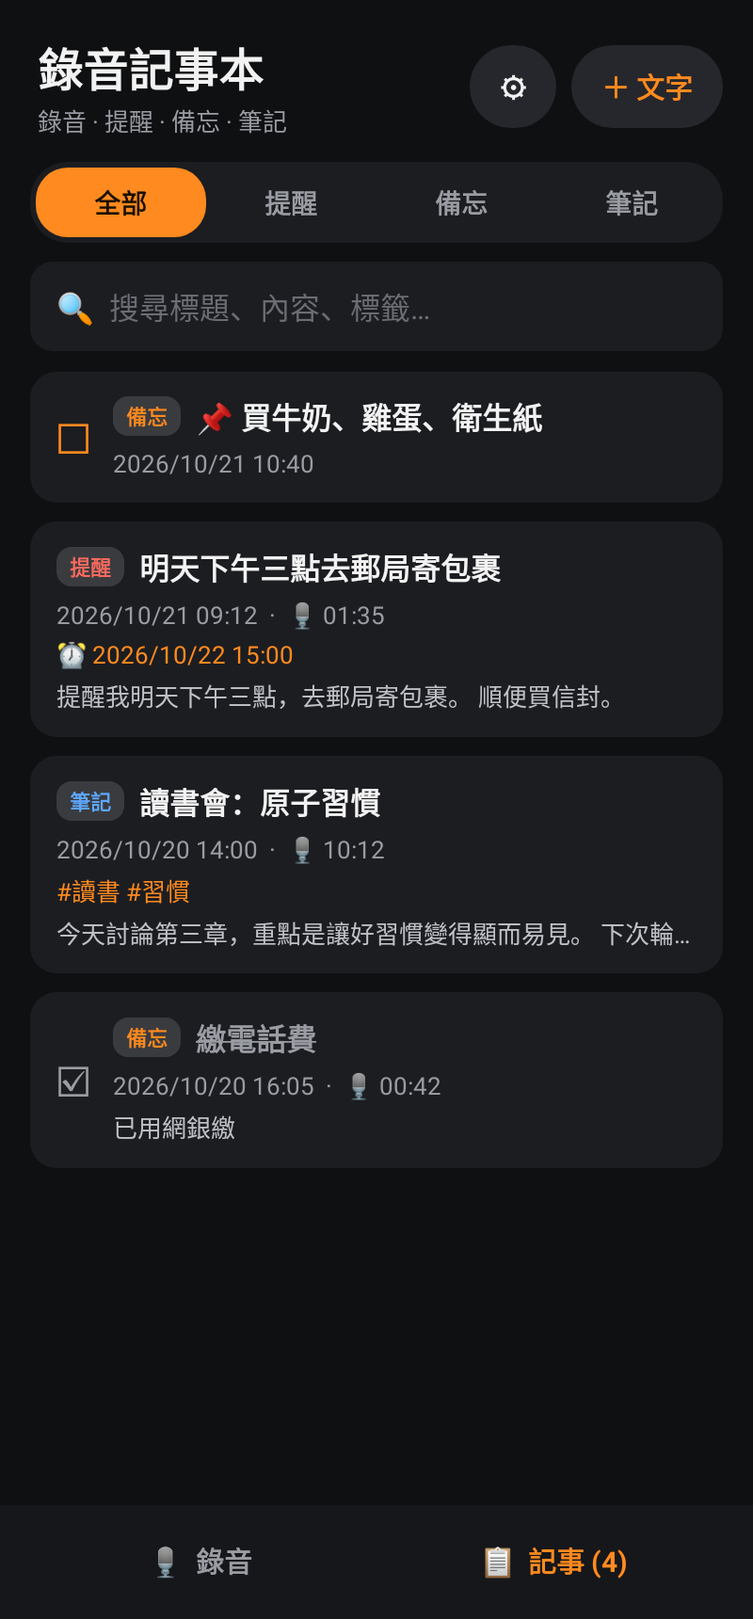
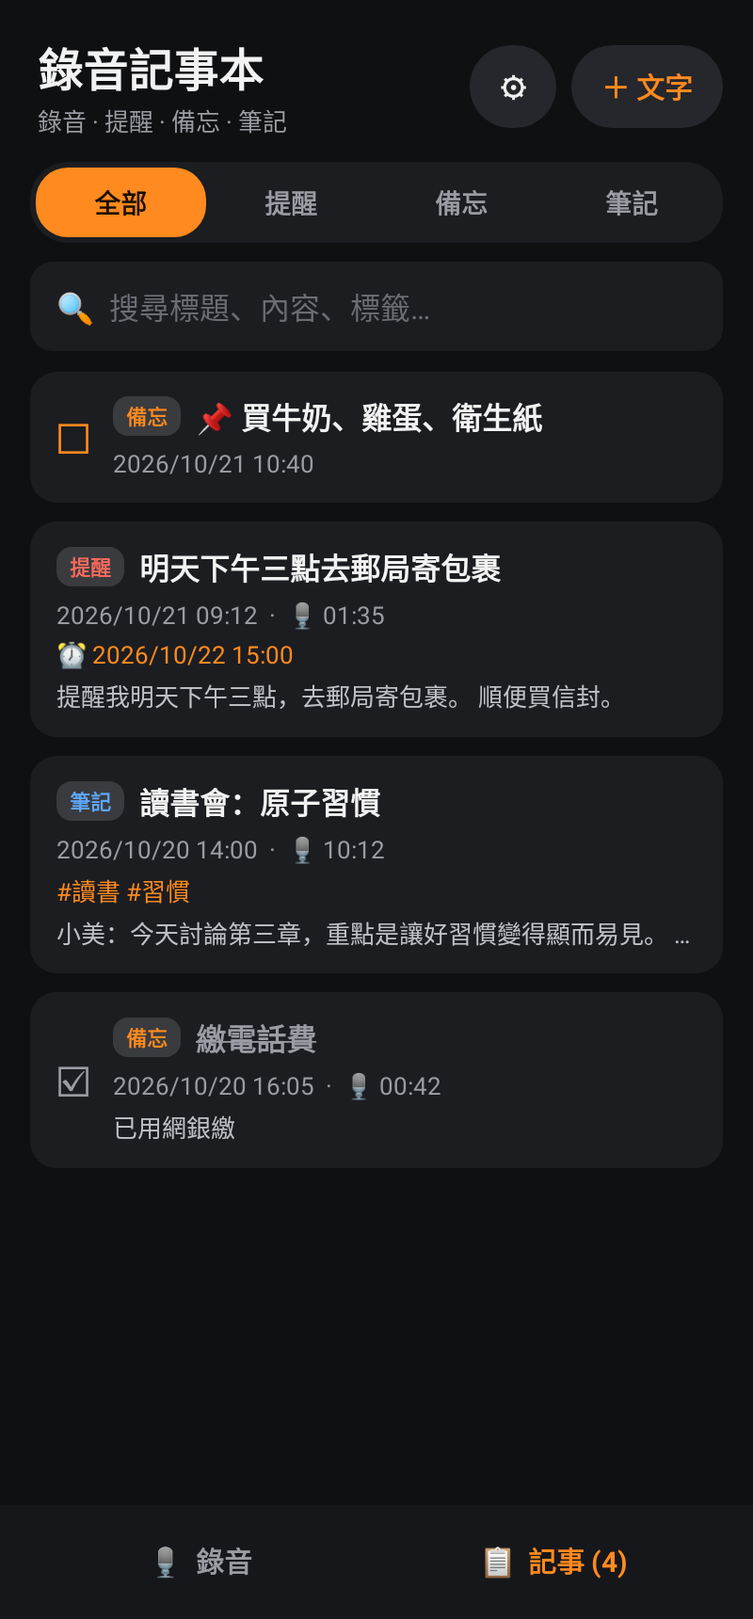
v1.2.0：離線分辨說話者

Changed region(s): [[0.0625, 0.5547, 0.9062, 0.5855]]

diff --git a/app/src/main/java/tw/voicememo/Transcriber.kt b/app/src/main/java/tw/voicememo/Transcriber.kt
@@ -16,7 +16,14 @@ import android.os.IBinder
 import androidx.core.app.NotificationCompat
 import androidx.core.app.ServiceCompat
 import androidx.core.content.ContextCompat
+import com.k2fsa.sherpa.onnx.FastClusteringConfig
 import com.k2fsa.sherpa.onnx.OfflineModelConfig
+import com.k2fsa.sherpa.onnx.OfflineSpeakerDiarization
+import com.k2fsa.sherpa.onnx.OfflineSpeakerDiarizationConfig
+import com.k2fsa.sherpa.onnx.OfflineSpeakerSegmentationModelConfig
+import com.k2fsa.sherpa.onnx.OfflineSpeakerSegmentationPyannoteModelConfig
+import com.k2fsa.sherpa.onnx.SpeakerEmbeddingExtractor
+import com.k2fsa.sherpa.onnx.SpeakerEmbeddingExtractorConfig
 import com.k2fsa.sherpa.onnx.OfflineRecognizer
 import com.k2fsa.sherpa.onnx.OfflineRecognizerConfig
 import com.k2fsa.sherpa.onnx.OfflineSenseVoiceModelConfig
@@ -40,6 +47,16 @@ object AsrModel {
     fun dir(ctx: Context) = File(ctx.filesDir, "sensevoice").apply { mkdirs() }
     fun ready(ctx: Context) = File(dir(ctx), ".ok").exists()
     fun delete(ctx: Context) { dir(ctx).deleteRecursively() }
+    // 說話者分辨：pyannote segmentation-3.0 + 3D-Speaker ERes2NetV2 (zh-cn)
+    const val SEG = "seg.onnx"; const val EMB = "emb.onnx"; const val DIAR_MB = 77
+    private const val SEG_URL = "https://huggingface.co/csukuangfj/sherpa-onnx-pyannote-segmentation-3-0/resolve/main/model.onnx"
+    private const val EMB_URL = "https://github.com/k2-fsa/sherpa-onnx/releases/download/speaker-recongition-models/3dspeaker_speech_eres2netv2_sv_zh-cn_16k-common.onnx"
+    fun ddir(ctx: Context) = File(ctx.filesDir, "diar").apply { mkdirs() }
+    fun diarReady(ctx: Context) = File(ddir(ctx), ".ok").exists()
+    fun deleteDiar(ctx: Context) { ddir(ctx).deleteRecursively() }
+    fun downloadDiar(ctx: Context, progress: (Int) -> Unit, cancelled: () -> Boolean) {
+        val d = ddir(ctx); fetch(SEG_URL, File(d, SEG), {}, cancelled); fetch(EMB_URL, File(d, EMB), progress, cancelled); File(d, ".ok").writeText("1")
+    }
     /** 可續傳下載；progress 0..100；cancelled() 為 true 時中止 */
     fun download(ctx: Context, progress: (Int) -> Unit, cancelled: () -> Boolean) {
         val d = dir(ctx)
@@ -116,7 +133,8 @@ class Transcriber : Service() {
         val progress = ConcurrentHashMap<Long, Int>() // -1 排隊、0..100 進度
         @Volatile var downloading = -1; @Volatile var error: String? = null; @Volatile private var cancelId = 0L; @Volatile var cancelAll = false
         fun status(id: Long): String? = progress[id]?.let { p ->
-            when { downloading >= 0 -> "下載語音模型 $downloading%"; p < 0 -> "等待轉文字…"; else -> "轉文字中… $p%" } }
+            when { downloading >= 0 -> "下載模型 $downloading%"; p < 0 -> "等待轉文字…"; else -> "$phase… $p%" } }
+        @Volatile var phase = "轉文字中"
         fun enqueue(ctx: Context, id: Long) {
             if (progress.putIfAbsent(id, -1) != null) return
             queue.add(id); cancelAll = false
@@ -124,6 +142,9 @@ class Transcriber : Service() {
         }
         fun cancel(id: Long) { if (queue.remove(id)) progress.remove(id); cancelId = id }
         fun auto(ctx: Context) = ctx.getSharedPreferences("ui", Context.MODE_PRIVATE).getBoolean("autoAsr", true)
+        fun diarOn(ctx: Context) = ctx.getSharedPreferences("ui", Context.MODE_PRIVATE).getBoolean("diar", true)
+        /** 0 = 自動，2..4 = 固定人數，5 = 5 人以上（自動、門檻放寬） */
+        fun spkCount(ctx: Context) = ctx.getSharedPreferences("ui", Context.MODE_PRIVATE).getInt("spk", 0)
     }
     private var worker: Thread? = null; private var rec: OfflineRecognizer? = null; private var cur = 0L
     private fun nm() = getSystemService(NotificationManager::class.java)
@@ -145,7 +166,8 @@ class Transcriber : Service() {
         try {
             while (true) {
                 val id = queue.poll() ?: break; cur = id; cancelId = 0
-                try { if (!AsrModel.ready(this)) download(); run(id) }
+                try { if (!AsrModel.ready(this)) download(); if (diarOn(this) && !AsrModel.diarReady(this)) downloadDiar()
+                      if (diarOn(this)) runDiar(id) else run(id) }
                 catch (e: InterruptedException) { }
                 catch (e: Throwable) { error = "轉文字失敗：${e.message}" }
                 finally { progress.remove(id); cur = 0; downloading = -1 }
@@ -161,6 +183,10 @@ class Transcriber : Service() {
         downloading = 0; show("下載語音模型（約 ${AsrModel.SIZE_MB}MB）", 0)
         AsrModel.download(this, { downloading = it; show("下載語音模型 $it%", it) }, ::stop); downloading = -1
     }
+    private fun downloadDiar() {
+        downloading = 0; show("下載說話者模型（約 ${AsrModel.DIAR_MB}MB）", 0)
+        AsrModel.downloadDiar(this, { downloading = it; show("下載說話者模型 $it%", it) }, ::stop); downloading = -1
+    }
     private fun recognizer(): OfflineRecognizer = rec ?: run {
         val d = AsrModel.dir(this)
         OfflineRecognizer(null, OfflineRecognizerConfig(modelConfig = OfflineModelConfig(
@@ -174,7 +200,7 @@ class Transcriber : Service() {
         val vad = Vad(assets, VadModelConfig(sileroVadModelConfig = SileroVadModelConfig(model = "silero_vad.onnx", threshold = 0.5f,
             minSilenceDuration = 0.5f, minSpeechDuration = 0.25f, windowSize = 512, maxSpeechDuration = 20f), sampleRate = 16000, numThreads = 1))
         val segs = mutableListOf<Triple<String, Double, Double>>(); val win = FloatArray(512); var wn = 0; var lastSave = 0L
-        progress[id] = 0; show("轉文字中… 0%", 0)
+        progress[id] = 0; phase = "轉文字中"; show("轉文字中… 0%", 0)
         fun drain() { while (!vad.empty()) { val sg = vad.front(); vad.pop()
             val st = r.createStream(); st.acceptWaveform(sg.samples, 16000); r.decode(st); val t = r.getResult(st).text; st.release()
             val tt = s2t.convert(t).trim(); if (tt.isNotEmpty()) segs += Triple(tt, sg.start / 16000.0, (sg.start + sg.samples.size) / 16000.0)
@@ -190,10 +216,75 @@ class Transcriber : Service() {
         write(id, segs, !stop())
     }
 
+    private fun asr(x: FloatArray, from: Int, to: Int): String {
+        val r = recognizer(); val sb = StringBuilder(); var a = from
+        while (a < to) { // SenseVoice 一次最多約 30 秒，切成 ≤20 秒
+            val b = minOf(to, a + 20 * 16000); if (b - a < 16000 * 3 / 10) break
+            val st = r.createStream(); st.acceptWaveform(x.copyOfRange(a, b), 16000); r.decode(st); sb.append(r.getResult(st).text); st.release(); a = b
+        }
+        return S2T.get(this).convert(sb.toString()).trim()
+    }
+
+    /** 準確優先：先分辨說話者，再逐段（每個說話者的一段）辨識。每 10 分鐘一個視窗，跨視窗用聲紋比對同一人 */
+    private fun runDiar(id: Long) {
+        val n0 = Store.get(this, id) ?: return; val f = Store.audio(this, n0); if (!f.exists()) return
+        val pcm = File(cacheDir, "asr_$id.pcm"); progress[id] = 0; show("準備音訊…", 0)
+        try {
+            // 1) 串流解碼成 16kHz 16-bit 暫存檔（每小時約 115MB），不佔記憶體
+            pcm.outputStream().buffered(1 shl 16).use { o ->
+                Decoder.stream(f) { x, us, dur ->
+                    val bb = java.nio.ByteBuffer.allocate(x.size * 2).order(ByteOrder.LITTLE_ENDIAN)
+                    for (v in x) bb.putShort((v.coerceIn(-1f, 1f) * 32767).toInt().toShort()); o.write(bb.array())
+                    if (dur > 0) setP(id, (us * 10 / dur).toInt(), "整理音訊"); !stop() } }
+            if (stop()) { write(id, emptyList<Diar.Turn>(), false); return }
+            val total = (pcm.length() / 2).toInt(); val win = 600 * 16000
+            val cuts = Diar.cuts(pcm, total, win)
+            val spkN = spkCount(this)
+            val cfg = OfflineSpeakerDiarizationConfig(
+                segmentation = OfflineSpeakerSegmentationModelConfig(pyannote = OfflineSpeakerSegmentationPyannoteModelConfig(File(AsrModel.ddir(this), AsrModel.SEG).path), numThreads = 4),
+                embedding = SpeakerEmbeddingExtractorConfig(model = File(AsrModel.ddir(this), AsrModel.EMB).path, numThreads = 4),
+                clustering = FastClusteringConfig(numClusters = if (spkN in 2..4) spkN else -1, threshold = if (spkN == 5) 0.7f else Diar.THRESHOLD),
+                minDurationOn = 0.3f, minDurationOff = 0.5f)
+            val sd = OfflineSpeakerDiarization(null, cfg)
+            val ex = SpeakerEmbeddingExtractor(null, SpeakerEmbeddingExtractorConfig(model = File(AsrModel.ddir(this), AsrModel.EMB).path, numThreads = 4))
+            val link = Diar.Linker(if (spkN in 2..4) spkN else 0); val turns = mutableListOf<Diar.Turn>()
+            try {
+                for (k in 0 until cuts.size - 1) {
+                    if (stop()) break
+                    val a = cuts[k]; val b = cuts[k + 1]; val x = Diar.read(pcm, a, b - a)
+                    val base = 10 + 90 * k / (cuts.size - 1); val span = 90 / (cuts.size - 1)
+                    setP(id, base, "分辨說話者")
+                    val segs = sd.processWithCallback(x, { done, all, _ -> if (all > 0) setP(id, base + span / 2 * done / all, "分辨說話者"); 0 }, 0L)
+                    val local = Diar.merge(segs.map { Diar.Seg((it.start * 16000).toInt(), (it.end * 16000).toInt(), it.speaker) })
+                    // 每個本地說話者取最長幾段算聲紋，對到全域說話者
+                    val map = HashMap<Int, Int>()
+                    for (spk in local.map { it.spk }.distinct()) {
+                        val parts = local.filter { it.spk == spk }.sortedByDescending { it.b - it.a }
+                        val st = ex.createStream(); var len = 0
+                        for (p in parts) { if (len > 20 * 16000) break; val e = minOf(p.b, p.a + 20 * 16000 - len); st.acceptWaveform(x.copyOfRange(p.a, e), 16000); len += e - p.a }
+                        st.inputFinished(); map[spk] = if (ex.isReady(st)) link.assign(ex.compute(st)) else link.assign(null); st.release()
+                    }
+                    for ((i, t) in local.withIndex()) {
+                        if (stop()) break
+                        val txt = asr(x, t.a, t.b)
+                        if (txt.isNotEmpty()) turns += Diar.Turn(map[t.spk] ?: 0, txt, (a + t.a) / 16000.0, (a + t.b) / 16000.0)
+                        setP(id, base + span / 2 + span / 2 * (i + 1) / local.size, "辨識文字")
+                        val now = System.currentTimeMillis(); if (now - lastWrite > 3000) { lastWrite = now; write(id, turns, false) }
+                    }
+                }
+            } finally { sd.release(); ex.release() }
+            write(id, turns, !stop())
+        } finally { pcm.delete() }
+    }
+    private var lastWrite = 0L
+    private fun setP(id: Long, p: Int, what: String) { val q = p.coerceIn(0, 99); if (q != progress[id]) { progress[id] = q; phase = what; show("$what… $q%", q) } }
+
     /** 寫回記事（只動逐字稿相關欄位）；final 時判斷標題、提醒時間、正式檔名 */
-    private fun write(id: Long, segs: List<Triple<String, Double, Double>>, final: Boolean) {
+    private fun write(id: Long, segs: List<Triple<String, Double, Double>>, final: Boolean) = writeText(id, Transcript.join(segs), segs.isEmpty(), final)
+    @JvmName("writeTurns") private fun write(id: Long, turns: List<Diar.Turn>, final: Boolean) = writeText(id, Transcript.speakers(turns), turns.isEmpty(), final)
+    private fun writeText(id: Long, t0: String, empty: Boolean, final: Boolean) {
         val n = Store.get(this, id) ?: return
-        var text = Transcript.join(segs)
+        var text = t0
         if (!final) text += if (stop()) "\n（轉文字已取消，以上為部分內容）" else "\n…"
         if (final && text.isNotEmpty()) {
             if (Names.isDefaultTitle(n.title)) Transcript.title(text)?.let { n.title = it }
@@ -203,7 +294,7 @@ class Transcriber : Service() {
                 if (times.size > 1) text += "\n\n其他提到的時間：\n" + times.drop(1).joinToString("\n") { "• " + Names.date(it.first) + "　" + it.second }
             }
         }
-        if (segs.isEmpty() && final) text = "（沒有辨識到語音）"
+        if (empty && final) text = "（沒有辨識到語音）"
         n.text = text; n.asr = if (final) 2 else 1
         if (final || stop()) { Store.save(this, n); Files.finalize(this, n); Reminders.sync(this, n) } else Store.save(this, n)
     }

diff --git a/app/src/main/java/tw/voicememo/NoteActivity.kt b/app/src/main/java/tw/voicememo/NoteActivity.kt
@@ -33,7 +33,7 @@ class NoteActivity : AppCompatActivity() {
     private lateinit var title: EditText
     private lateinit var text: EditText; private lateinit var tags: EditText
     private lateinit var asrBox: LinearLayout; private lateinit var asrText: TextView; private lateinit var asrBtn: TextView
-    private var lastAsr: String? = null; private var origTitle = ""
+    private var lastAsr: String? = null; private lateinit var spkBtn: TextView; private var origTitle = ""
     private lateinit var remindBox: View; private lateinit var remindBtn: TextView; private lateinit var memoBox: View; private lateinit var noteBox: View
     private lateinit var pin: CheckBox; private lateinit var done: CheckBox; private lateinit var textLabel: TextView
     private val typeViews = mutableListOf<TextView>(); private var typeTouched = false
@@ -61,7 +61,9 @@ class NoteActivity : AppCompatActivity() {
     fun startAsr(n: Note, askOverwrite: Boolean) {
         if (askOverwrite && n.text.isNotBlank()) { AlertDialog.Builder(this).setTitle("重新轉文字？").setMessage("目前的內容會被新的逐字稿取代。")
             .setPositiveButton("重新轉") { _, _ -> startAsr(n, false) }.setNegativeButton("取消", null).show(); return }
-        if (!AsrModel.ready(this)) { AlertDialog.Builder(this).setTitle("下載語音轉文字模型").setMessage("第一次使用需要下載 SenseVoice 中文模型，約 ${AsrModel.SIZE_MB}MB，建議用 Wi-Fi。下載後完全離線辨識，不會上傳錄音。")
+        val needDiar = Transcriber.diarOn(this) && !AsrModel.diarReady(this)
+        if (!AsrModel.ready(this) || needDiar) { val mb = (if (AsrModel.ready(this)) 0 else AsrModel.SIZE_MB) + (if (needDiar) AsrModel.DIAR_MB else 0)
+            AlertDialog.Builder(this).setTitle("下載離線辨識模型").setMessage("第一次使用需要下載" + (if (AsrModel.ready(this)) "" else " SenseVoice 中文語音模型") + (if (needDiar) " 說話者分辨模型" else "") + "，共約 ${mb}MB，建議用 Wi-Fi。下載後完全離線辨識，錄音不會離開手機。")
             .setPositiveButton("下載並轉文字") { _, _ -> go(n) }.setNegativeButton("先不要", null).show(); return }
         go(n)
     }
@@ -85,6 +87,7 @@ class NoteActivity : AppCompatActivity() {
         lastAsr = st
         asrText.text = st ?: when { !note.hasAudio -> ""; note.asr == 2 -> "✓ 已轉成文字（SenseVoice 離線辨識）"; else -> "可把錄音轉成文字" }
         asrBtn.text = if (st != null) "取消" else if (note.asr == 0 && note.text.isBlank()) "轉文字" else "重新轉文字"
+        spkBtn.visibility = if (st == null && Transcript.labels(text.text.toString()).isNotEmpty()) View.VISIBLE else View.GONE
         text.isEnabled = st == null; text.hint = if (st != null) "轉文字中，完成後可編輯…" else "可直接打字，或按「轉文字」"
     }
 
@@ -99,6 +102,7 @@ class NoteActivity : AppCompatActivity() {
         audioFile()?.let { col.addView(buildPlayer(), lp(MP, WC).apply { topMargin = dp(14) }) }
         asrBox = LinearLayout(this).apply { gravity = Gravity.CENTER_VERTICAL; setPadding(dp(4), dp(10), 0, 0); visibility = if (note.hasAudio) View.VISIBLE else View.GONE }
         asrText = tv("", 13f, C.OR); asrBox.addView(asrText, lp(0, WC, 1f))
+        spkBtn = btn("改名", C.CARD2, C.OR) { renameSpeakers() }; asrBox.addView(spkBtn, lp(WC, WC).apply { rightMargin = dp(8) })
         asrBtn = btn("轉文字") { if (Transcriber.status(note.id) != null) Transcriber.cancel(note.id) else { save(); startAsr(note, true) } }; asrBox.addView(asrBtn)
         col.addView(asrBox)
 
@@ -166,6 +170,17 @@ class NoteActivity : AppCompatActivity() {
                 updateRemindBtn()
             }, base.hour, base.minute, true).show()
         }, base.year, base.monthValue - 1, base.dayOfMonth).show()
+    }
+
+    private fun renameSpeakers() {
+        val names = Transcript.labels(text.text.toString()); if (names.isEmpty()) return
+        AlertDialog.Builder(this).setTitle("要改哪一位？").setItems(names.toTypedArray()) { _, i ->
+            val e = field(names[i]).apply { setText(names[i]); selectAll() }
+            val box = LinearLayout(this).apply { setPadding(dp(20), dp(8), dp(20), 0); addView(e, lp(MP, WC)) }
+            AlertDialog.Builder(this).setTitle("「${names[i]}」改成").setView(box)
+                .setPositiveButton("全部改") { _, _ -> text.setText(Transcript.rename(text.text.toString(), names[i], e.text.toString())); save(); refreshAsr() }
+                .setNegativeButton("取消", null).show()
+        }.show()
     }
 
     fun save(): Boolean {

diff --git a/app/src/main/java/tw/voicememo/MainActivity.kt b/app/src/main/java/tw/voicememo/MainActivity.kt
@@ -173,11 +173,25 @@ class MainActivity : AppCompatActivity() {
         val sw = androidx.appcompat.widget.SwitchCompat(this).apply { text = "錄完自動轉文字"; setTextColor(C.TX); isChecked = ui.getBoolean("autoAsr", true)
             setOnCheckedChangeListener { _, c -> ui.edit().putBoolean("autoAsr", c).apply() } }
         box.addView(sw)
+        box.addView(tv("分辨說話者：pyannote 3.0 + 3D-Speaker ERes2NetV2（約 ${AsrModel.DIAR_MB}MB）", 15f, C.TX, true).apply { setPadding(0, dp(16), 0, 0) })
+        val dst = tv(if (AsrModel.diarReady(this)) "模型已下載" else "模型未下載（開啟時第一次轉文字會下載）", 14f, C.SUB).apply { setPadding(0, dp(6), 0, dp(6)) }; box.addView(dst)
+        val cnt = LinearLayout(this).apply { gravity = Gravity.CENTER_VERTICAL }
+        val dsw = androidx.appcompat.widget.SwitchCompat(this).apply { text = "分辨說話者"; setTextColor(C.TX); isChecked = ui.getBoolean("diar", true)
+            setOnCheckedChangeListener { _, c -> ui.edit().putBoolean("diar", c).apply(); cnt.alpha = if (c) 1f else .4f } }
+        box.addView(dsw)
+        cnt.addView(tv("人數", 14f, C.SUB).apply { setPadding(0, 0, dp(8), 0) })
+        val opts = listOf(0 to "自動", 2 to "2", 3 to "3", 4 to "4", 5 to "5+"); val vs = mutableListOf<TextView>()
+        fun paint() { val cur = ui.getInt("spk", 0); vs.forEachIndexed { i, v -> val on = opts[i].first == cur
+            v.setTextColor(if (on) 0xFF1A1000.toInt() else C.SUB); v.background = if (on) round(C.OR, dp(14).toFloat()) else null } }
+        opts.forEach { (k, t) -> val v = tv(t, 14f, C.SUB, true).apply { gravity = Gravity.CENTER; setPadding(dp(10), dp(6), dp(10), dp(6))
+            setOnClickListener { ui.edit().putInt("spk", k).apply(); paint() } }; vs += v; cnt.addView(v) }
+        paint(); cnt.alpha = if (dsw.isChecked) 1f else .4f; box.addView(cnt)
+        box.addView(tv("準確優先：先分辨說話者再逐段辨識，比只轉文字慢約 2–4 倍。", 12f, C.SUB).apply { setPadding(0, dp(8), 0, 0) })
         val d = androidx.appcompat.app.AlertDialog.Builder(this).setTitle("設定").setView(box).setPositiveButton("完成", null)
             .setNeutralButton("刪除模型") { _, _ ->
-                if (Transcriber.downloading >= 0) Toast.makeText(this, "下載中，請先取消", Toast.LENGTH_SHORT).show()
-                else { AsrModel.delete(this); Toast.makeText(this, "已刪除語音模型", Toast.LENGTH_SHORT).show() } }.show()
-        d.getButton(androidx.appcompat.app.AlertDialog.BUTTON_NEUTRAL).isEnabled = AsrModel.ready(this)
+                if (Transcriber.downloading >= 0 || Transcriber.progress.isNotEmpty()) Toast.makeText(this, "轉文字或下載中，請先取消", Toast.LENGTH_SHORT).show()
+                else { AsrModel.delete(this); AsrModel.deleteDiar(this); Toast.makeText(this, "已刪除語音與說話者模型", Toast.LENGTH_SHORT).show() } }.show()
+        d.getButton(androidx.appcompat.app.AlertDialog.BUTTON_NEUTRAL).isEnabled = AsrModel.ready(this) || AsrModel.diarReady(this)
     }
 
     private fun onRecTap() {

diff --git a/app/src/main/java/tw/voicememo/Diar.kt b/app/src/main/java/tw/voicememo/Diar.kt
@@ -1,0 +1,57 @@
+package tw.voicememo
+
+import java.io.File
+import java.io.RandomAccessFile
+import java.nio.ByteBuffer
+import java.nio.ByteOrder
+import kotlin.math.sqrt
+
+object Diar {
+    /** 3D-Speaker ERes2NetV2 + pyannote 3.0 的分群門檻（用 sherpa 的四人中文範例調過：0.8 → 正確 4 人） */
+    const val THRESHOLD = 0.8f
+    /** 跨視窗判定同一人的聲紋 cosine 門檻 */
+    const val LINK_SIM = 0.5f
+    data class Seg(val a: Int, val b: Int, val spk: Int)
+    data class Turn(val spk: Int, val text: String, val start: Double, val end: Double)
+
+    /** 同一人、間隔 < 1 秒的片段合併成一個 turn */
+    fun merge(s: List<Seg>): List<Seg> {
+        val out = mutableListOf<Seg>()
+        for (x in s.sortedBy { it.a }) { val l = out.lastOrNull()
+            if (l != null && l.spk == x.spk && x.a - l.b < 16000) out[out.size - 1] = l.copy(b = maxOf(l.b, x.b)) else out += x }
+        return out
+    }
+
+    fun read(pcm: File, from: Int, n: Int): FloatArray = RandomAccessFile(pcm, "r").use { r ->
+        val b = ByteArray(n * 2); r.seek(from * 2L); r.readFully(b)
+        val sb = ByteBuffer.wrap(b).order(ByteOrder.LITTLE_ENDIAN).asShortBuffer(); FloatArray(n) { sb.get(it) / 32768f } }
+
+    /** 視窗切點：每 win 取樣，往前 10 秒內找最安靜的 0.1 秒，避免切在句子中間 */
+    fun cuts(pcm: File, total: Int, win: Int): List<Int> {
+        val c = mutableListOf(0); var p = win
+        while (p < total - win / 4) {
+            val look = 10 * 16000; val x = read(pcm, p - look, look); var best = p; var bestE = Double.MAX_VALUE
+            for (s in 0 until look - 1600 step 800) { var e = 0.0; for (i in s until s + 1600) e += x[i] * x[i]; if (e < bestE) { bestE = e; best = p - look + s + 800 } }
+            c += best; p = best + win
+        }
+        c += total; return c
+    }
+
+    /** 全域說話者：聲紋平均，cosine 比對；maxN>0 時最多 maxN 人 */
+    class Linker(private val maxN: Int) {
+        val cents = mutableListOf<FloatArray>(); private val counts = mutableListOf<Int>()
+        private fun norm(v: FloatArray): FloatArray { var s = 0.0; for (x in v) s += x * x; val d = sqrt(s).toFloat().coerceAtLeast(1e-9f); return FloatArray(v.size) { v[it] / d } }
+        fun cos(a: FloatArray, b: FloatArray): Float { var s = 0f; for (i in a.indices) s += a[i] * b[i]; return s }
+        fun assign(e0: FloatArray?): Int {
+            if (e0 == null) return if (cents.isEmpty()) { cents += FloatArray(0); counts += 1; 0 } else 0
+            val e = norm(e0)
+            var bi = -1; var bs = -2f
+            cents.forEachIndexed { i, c -> if (c.size == e.size) { val s = cos(c, e); if (s > bs) { bs = s; bi = i } } }
+            val full = maxN > 0 && cents.size >= maxN
+            if (bi >= 0 && (bs >= LINK_SIM || full)) {
+                val k = counts[bi]; val c = cents[bi]; cents[bi] = norm(FloatArray(e.size) { (c[it] * k + e[it]) / (k + 1) }); counts[bi] = k + 1; return bi
+            }
+            cents += e; counts += 1; return cents.size - 1
+        }
+    }
+}

diff --git a/app/src/main/java/tw/voicememo/S2T.kt b/app/src/main/java/tw/voicememo/S2T.kt
@@ -49,10 +49,33 @@ object Transcript {
         if (sb.isNotEmpty() && sb.last() !in "。！？.!?") { if (sb.last() in "，,") sb.setLength(sb.length - 1); sb.append('。') }
         return sb.toString()
     }
+    /** 說話者逐段：一人時不加標籤；多人時「說話者 N：…」，N 依出現順序，同一人連續發言合併成一段 */
+    fun speakers(turns: List<Diar.Turn>): String {
+        if (turns.isEmpty()) return ""
+        val order = LinkedHashMap<Int, Int>(); turns.forEach { if (it.spk !in order) order[it.spk] = order.size + 1 }
+        if (order.size == 1) return join(turns.map { Triple(it.text, it.start, it.end) })
+        val sb = StringBuilder(); var last = -1
+        for (t in turns) {
+            val txt = t.text.trim(); if (txt.isEmpty()) continue
+            if (t.spk == last) { if (sb.last() !in "，。！？、,.!?") sb.append('，'); sb.append(txt) }
+            else { if (sb.isNotEmpty()) { if (sb.last() !in "。！？.!?") sb.append('。'); sb.append('\n') }; sb.append("說話者 ${order[t.spk]}：").append(txt) }
+            last = t.spk
+        }
+        if (sb.last() !in "。！？.!?") sb.append('。')
+        return sb.toString()
+    }
+    private val label = Regex("^([^：\n]{1,12})：", RegexOption.MULTILINE)
+    /** 逐字稿裡的說話者名稱（依出現順序） */
+    fun labels(text: String): List<String> = label.findAll(text).map { it.groupValues[1] }.distinct().toList().takeIf { it.size > 1 } ?: emptyList()
+    /** 改名：只改每行開頭的「舊名：」 */
+    fun rename(text: String, old: String, new: String): String {
+        val n = new.trim().replace("：", "").replace("\n", ""); if (n.isEmpty()) return text
+        return Regex("^" + Regex.escape(old) + "：", RegexOption.MULTILINE).replace(text, Regex.escapeReplacement(n) + "：")
+    }
     private val filler = Regex("^(嗯|啊|呃|那個|然後|就是|喂|好|對)+")
     /** 第一個有意義的句子當標題（≤20 字） */
     fun title(text: String): String? {
-        for (raw in text.split(Regex("[，。！？\\n]"))) {
+        for (raw in text.replace(label, "").split(Regex("[，。！？\\n]"))) {
             val s = raw.trim().replace(filler, ""); if (s.length >= 2) return s.take(20)
         }
         return null

diff --git a/app/src/test/java/tw/voicememo/LogicTest.kt b/app/src/test/java/tw/voicememo/LogicTest.kt
@@ -58,3 +58,29 @@ class S2TTest {
         assertTrue(n in 15990..16010)
     }
 }
+
+class DiarTest {
+    private fun t(s: Int, x: String, a: Double) = Diar.Turn(s, x, a, a + 2)
+    @Test fun labelsAndMerge() {
+        val out = Transcript.speakers(listOf(t(3, "明天下午三點開會", 0.0), t(3, "記得帶筆電", 2.5), t(0, "好，我會準備報告。", 5.0), t(3, "謝謝", 8.0)))
+        assertEquals("說話者 1：明天下午三點開會，記得帶筆電。\n說話者 2：好，我會準備報告。\n說話者 1：謝謝。", out)
+        assertEquals(listOf("說話者 1", "說話者 2"), Transcript.labels(out))
+        val r = Transcript.rename(out, "說話者 1", "小明")
+        assertEquals("小明：明天下午三點開會，記得帶筆電。\n說話者 2：好，我會準備報告。\n小明：謝謝。", r)
+        assertEquals("明天下午三點開會", Transcript.title(out))
+    }
+    @Test fun singleSpeakerNoLabels() {
+        val out = Transcript.speakers(listOf(t(1, "第一句", 0.0), t(1, "第二句", 5.0)))
+        assertEquals("第一句。\n第二句。", out); assertTrue(Transcript.labels(out).isEmpty())
+    }
+    @Test fun mergeSegs() {
+        val m = Diar.merge(listOf(Diar.Seg(0, 16000, 0), Diar.Seg(20000, 40000, 0), Diar.Seg(80000, 90000, 0), Diar.Seg(90000, 99000, 1)))
+        assertEquals(listOf(Diar.Seg(0, 40000, 0), Diar.Seg(80000, 90000, 0), Diar.Seg(90000, 99000, 1)), m)
+    }
+    @Test fun linker() {
+        val l = Diar.Linker(0)
+        assertEquals(0, l.assign(floatArrayOf(1f, 0f, 0f))); assertEquals(1, l.assign(floatArrayOf(0f, 1f, 0f)))
+        assertEquals(0, l.assign(floatArrayOf(.9f, .1f, 0f))); assertEquals(2, l.assign(floatArrayOf(0f, 0f, 1f)))
+        val c = Diar.Linker(2); c.assign(floatArrayOf(1f, 0f)); c.assign(floatArrayOf(0f, 1f)); assertEquals(1, c.assign(floatArrayOf(-.2f, 1f)))
+    }
+}

diff --git a/app/src/test/java/tw/voicememo/PreviewTest.kt b/app/src/test/java/tw/voicememo/PreviewTest.kt
@@ -35,7 +35,7 @@ class PreviewTest {
         Store.save(c, Note(ms(21, 9, 12), "明天下午三點去郵局寄包裹", "提醒我明天下午三點，去郵局寄包裹。\n順便買信封。", asr = 2, file = "x.m4a", durationMs = 95_000, type = Note.REMIND, remindAt = ms(22, 15, 0)))
         Store.save(c, Note(ms(21, 10, 40), "買牛奶、雞蛋、衛生紙", type = Note.MEMO, pinned = true))
         Store.save(c, Note(ms(20, 16, 5), "繳電話費", "已用網銀繳", file = "y.m4a", durationMs = 42_000, type = Note.MEMO, done = true))
-        Store.save(c, Note(ms(20, 14, 0), "讀書會：原子習慣", "今天討論第三章，重點是讓好習慣變得顯而易見。\n下次輪到我分享。", asr = 2, file = "z.m4a", durationMs = 612_000, type = Note.NOTE, tags = "讀書 習慣"))
+        Store.save(c, Note(ms(20, 14, 0), "讀書會：原子習慣", "小美：今天討論第三章，重點是讓好習慣變得顯而易見。\n說話者 2：我覺得環境設計那段最有用。\n小美：好，下次輪到你分享。", asr = 2, file = "z.m4a", durationMs = 612_000, type = Note.NOTE, tags = "讀書 習慣"))
     }
     @Test fun render() {
         seed()
@@ -49,6 +49,6 @@ class PreviewTest {
         val e = Robolectric.buildActivity(NoteActivity::class.java, Intent(c, NoteActivity::class.java).putExtra("id", ms(21, 9, 12))).setup().get()
         shot(e, "4-編輯-提醒")
         val n = Robolectric.buildActivity(NoteActivity::class.java, Intent(c, NoteActivity::class.java).putExtra("id", ms(20, 14, 0))).setup().get()
-        shot(n, "5-編輯-筆記")
+        shot(n, "5-編輯-筆記-多人")
     }
 }

diff --git a/README.md b/README.md
@@ -4,6 +4,7 @@
 
 - 錄音：AAC m4a 44.1kHz 128kbps，暫停/繼續，通知列可停止
 - 語音轉文字：sherpa-onnx + SenseVoice Small int8（約 240MB，第一次使用時下載）+ Silero VAD 切段，完全離線、免費；OpenCC 簡轉繁
+- 分辨說話者：pyannote segmentation-3.0 + 3D-Speaker ERes2NetV2（約 77MB，下載一次），先分辨再逐段辨識，「說話者 N：」可改名，人數自動或 2–5+
 - 長錄音：串流解碼、背景前景服務、進度%、可取消、邊轉邊存
 - 提醒：自動從逐字稿找最早的未來時間（如「明天下午三點」），到時通知
 - 備忘：置頂、勾選完成；筆記：長文、標籤
